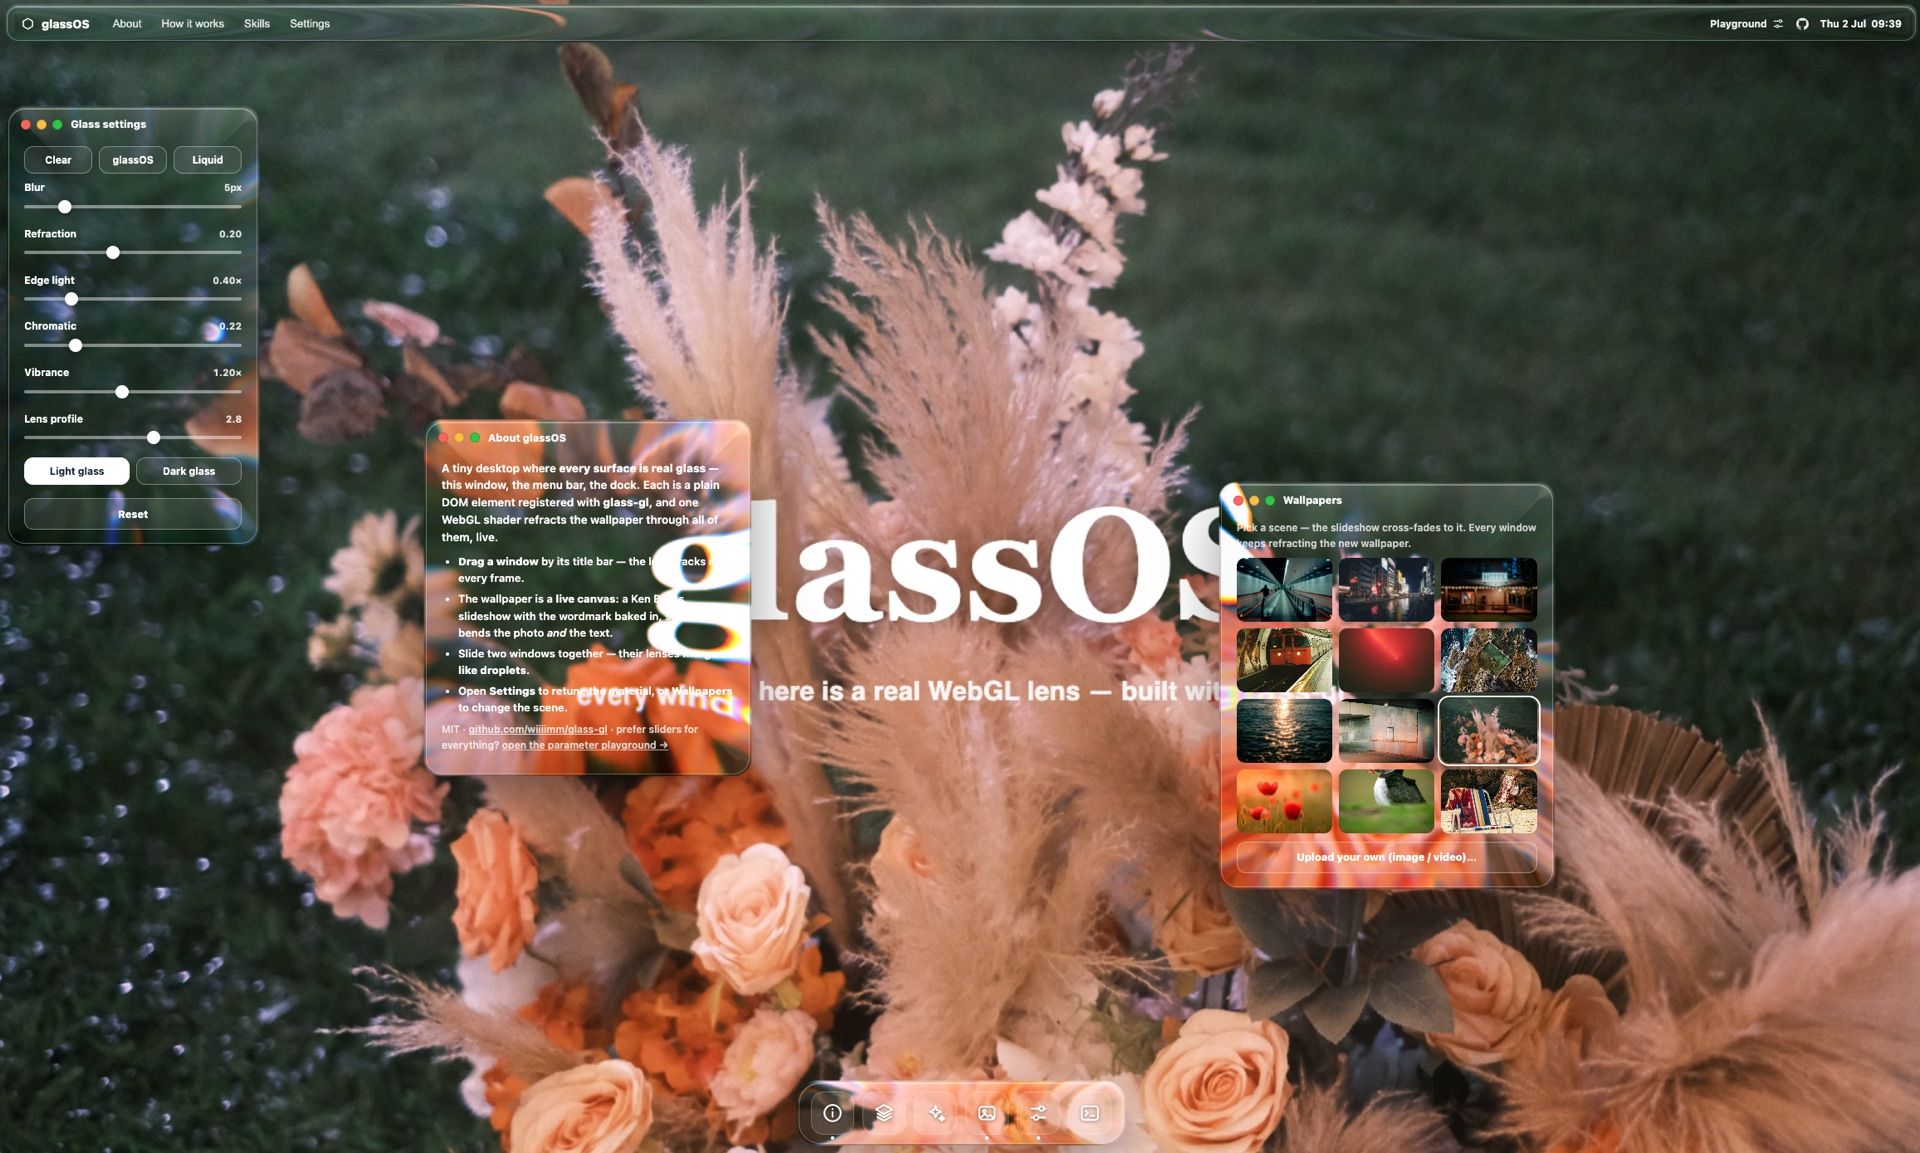
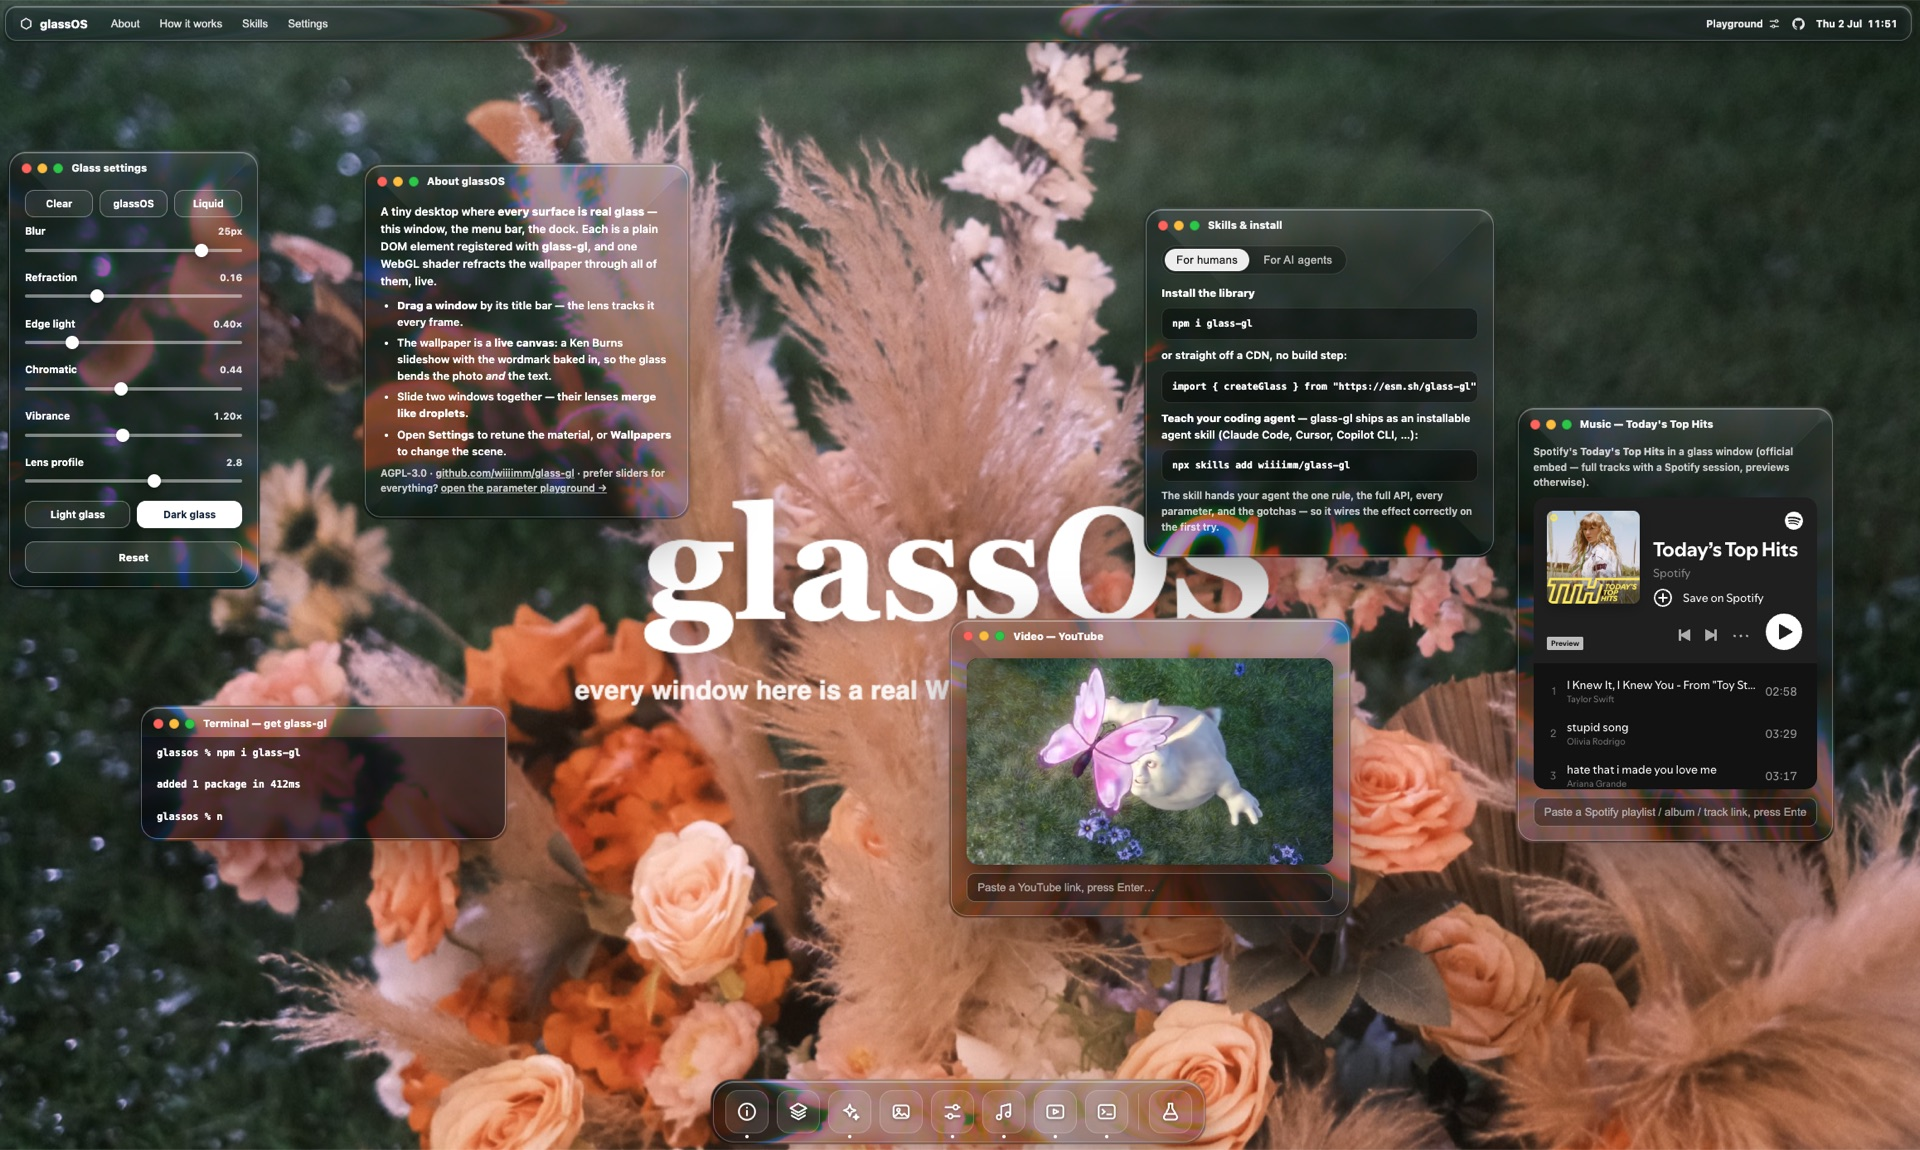
docs: refresh README screenshot — glassOS with Music & Video apps
Updated shot shows the new Music (Spotify) and Video (YouTube) windows
alongside About, Skills, Settings, and Terminal, all refracting the
Florals wallpaper. Same docs/playground.jpg path (npm README's raw URL
stays valid); alt text updated in both READMEs.

Claude-Session: https://claude.ai/code/session_01Ttp39hBP3d6xUiDVMaH7uc

diff --git a/README.md b/README.md
@@ -4,7 +4,7 @@ Real **WebGL liquid glass** for the web — a tiny, framework-agnostic engine th
 any DOM element refract the background behind it like a physical glass lens (bend +
 magnify + frost + edge light), not just a `backdrop-filter` blur.
 
-![glassOS — a desktop made of glass-gl surfaces: menu bar, dock, and draggable app windows refracting a floral wallpaper with the glassOS wordmark baked in](docs/playground.jpg)
+![glassOS — a desktop made of glass-gl surfaces: menu bar, dock, and draggable app windows (including the Spotify Music and YouTube Video apps) refracting a floral wallpaper with the glassOS wordmark baked in](docs/playground.jpg)
 
 > **⚠️ Experimental.** Early and evolving — the API, parameters, and visuals may change
 > without notice, and it isn't production-hardened yet. The engine works; packaging and a

diff --git a/packages/glass-gl/README.md b/packages/glass-gl/README.md
@@ -4,7 +4,7 @@ Real **WebGL liquid glass** for the web. A tiny, framework-agnostic engine that 
 DOM element refract the background behind it like a physical glass lens — bend, magnify,
 frost, edge-light — not just a `backdrop-filter` blur.
 
-![glassOS — a desktop made of glass-gl surfaces: menu bar, dock, and draggable app windows refracting a floral wallpaper with the glassOS wordmark baked in](https://raw.githubusercontent.com/wiiiimm/glass-gl/main/docs/playground.jpg)
+![glassOS — a desktop made of glass-gl surfaces: menu bar, dock, and draggable app windows (including the Spotify Music and YouTube Video apps) refracting a floral wallpaper with the glassOS wordmark baked in](https://raw.githubusercontent.com/wiiiimm/glass-gl/main/docs/playground.jpg)
 
 > **⚠️ Experimental.** Early and evolving — the API, parameters, and visuals may change
 > without notice, and it is not production-hardened. Use at your own risk.